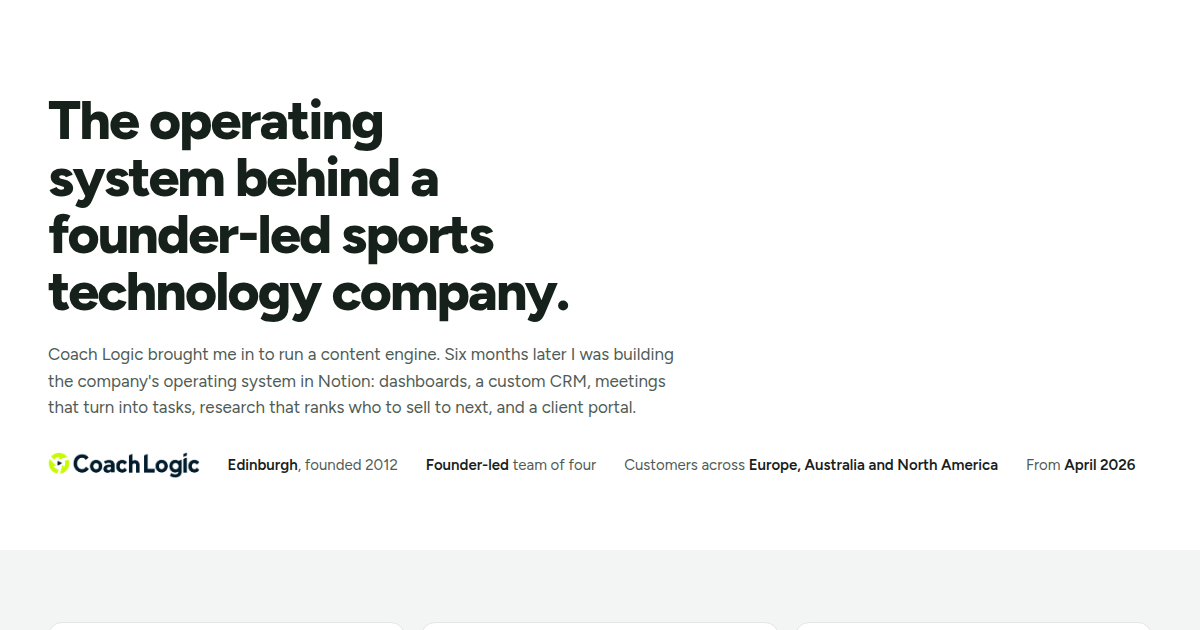
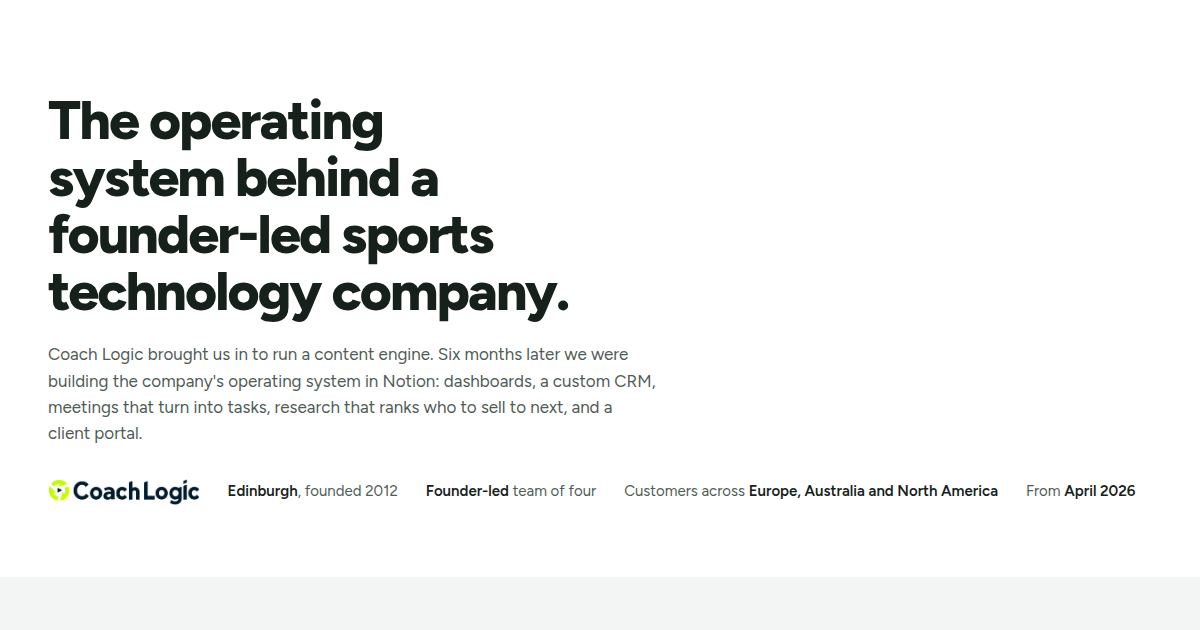
Use we, not I, across the case study
Records the rule in PRODUCT.md.

Claude-Session: https://claude.ai/code/session_01MBTKsyELa39onKPsEkKtmB

Changed region(s): [[0.0308, 0.5429, 0.555, 0.8143], [0.5242, 0.7238, 0.8325, 0.8143], [0.8633, 0.7238, 0.9558, 0.7841]]

diff --git a/work/coach-logic/index.html b/work/coach-logic/index.html
@@ -43,7 +43,7 @@
   <div class="wrap cs-hero">
     <a class="crumb" href="../../#work"><svg viewBox="0 0 16 16" fill="none" stroke="currentColor" stroke-width="2" aria-hidden="true"><path d="M13 8H3M7 4L3 8l4 4"/></svg>All work</a>
     <h1>The operating system behind a founder-led sports technology company.</h1>
-    <p class="lede">Coach Logic brought me in to run a content engine. Six months later I was building the company's operating system in Notion: dashboards, a custom CRM, meetings that turn into tasks, research that ranks who to sell to next, and a client portal.</p>
+    <p class="lede">Coach Logic brought us in to run a content engine. Six months later we were building the company's operating system in Notion: dashboards, a custom CRM, meetings that turn into tasks, research that ranks who to sell to next, and a client portal.</p>
     <div class="facts">
       <img src="../../assets/coach-logic.png" alt="Coach Logic" width="152" height="26">
       <span><b>Edinburgh</b>, founded 2012</span>
@@ -60,7 +60,7 @@
         <div class="stat"><b>2.5&times;</b><span>the reactions</span></div>
         <div class="stat"><b>1.0% to 1.5%</b><span>engagement rate, rising while reach grew</span></div>
       </div>
-      <p class="results-note">LinkedIn analytics for 1 April to 23 September 2026, against the previous period of equal length. I started on 22 April, so the window includes three weeks before I joined. Conferences, a coaching series and partner content fed these numbers; I ran the engine that turned them into posts.</p>
+      <p class="results-note">LinkedIn analytics for 1 April to 23 September 2026, against the previous period of equal length. We started on 22 April, so the window includes three weeks before we joined. Conferences, a coaching series and partner content fed these numbers; we ran the engine that turned them into posts.</p>
     </div>
   </section>
 
@@ -103,14 +103,14 @@
   <section>
     <div class="wrap">
       <div class="head">
-        <h2>How I built it.</h2>
+        <h2>How we built it.</h2>
         <p>The approach matters as much as the parts. It is why the system still makes sense to people who didn't build it.</p>
       </div>
       <ul class="principles">
         <li><h3>Audit before building</h3><p>Every database was read for how full it actually was before anything was designed on top of it. A field existing is not data existing.</p></li>
         <li><h3>Tear down and rebuild</h3><p>The first pass was deliberately taken apart and rebuilt one database at a time, with the founders walking through each one before moving on.</p></li>
         <li><h3>Governed schemas</h3><p>Core databases have a closed, documented set of fields. Nothing gets added without a decision.</p></li>
-        <li><h3>One living build record</h3><p>A single running document holds every schema, decision and platform limit, so someone other than me can maintain it.</p></li>
+        <li><h3>One living build record</h3><p>A single running document holds every schema, decision and platform limit, so someone other than us can maintain it.</p></li>
         <li><h3>Built around how people work</h3><p>Tasks reach founders without a flood of notifications. A captured date sits apart from a due date, so migrated tasks didn't all show as overdue on day one.</p></li>
         <li><h3>A person approves every write</h3><p>Claude drafts, structures and files. Someone on the team approves, and nothing is ever published automatically.</p></li>
       </ul>
@@ -120,7 +120,7 @@
   <section class="soft">
     <div class="wrap">
       <div class="head">
-        <h2>What I built.</h2>
+        <h2>What we built.</h2>
         <p class="redact-note"><span class="r d" aria-hidden="true"></span>The layouts, fields and views are real. Client writing is blurred out.</p>
       </div>
 
@@ -334,7 +334,7 @@
         <li><svg viewBox="0 0 24 24" fill="none" stroke="currentColor" stroke-width="2.2" stroke-linecap="round" stroke-linejoin="round" aria-hidden="true"><path d="M5 12.5l4.5 4.5L19 7.5"/></svg><div><b>Deals carry their own history</b><span>Anyone picking up an account sees every conversation and open action on it.</span></div></li>
         <li><svg viewBox="0 0 24 24" fill="none" stroke="currentColor" stroke-width="2.2" stroke-linecap="round" stroke-linejoin="round" aria-hidden="true"><path d="M5 12.5l4.5 4.5L19 7.5"/></svg><div><b>A real view after the sale</b><span>Signed customers are tracked for onboarding and growth, not forgotten once the invoice clears.</span></div></li>
         <li><svg viewBox="0 0 24 24" fill="none" stroke="currentColor" stroke-width="2.2" stroke-linecap="round" stroke-linejoin="round" aria-hidden="true"><path d="M5 12.5l4.5 4.5L19 7.5"/></svg><div><b>Research that sets priorities</b><span>A ranked target list replaces gut feel on where to spend limited founder time.</span></div></li>
-        <li><svg viewBox="0 0 24 24" fill="none" stroke="currentColor" stroke-width="2.2" stroke-linecap="round" stroke-linejoin="round" aria-hidden="true"><path d="M5 12.5l4.5 4.5L19 7.5"/></svg><div><b>Maintainable</b><span>Documented schemas and a living build record mean the system doesn't depend on my memory.</span></div></li>
+        <li><svg viewBox="0 0 24 24" fill="none" stroke="currentColor" stroke-width="2.2" stroke-linecap="round" stroke-linejoin="round" aria-hidden="true"><path d="M5 12.5l4.5 4.5L19 7.5"/></svg><div><b>Maintainable</b><span>Documented schemas and a living build record mean the system doesn't depend on our memory.</span></div></li>
       </ul>
       <div class="gap" style="margin-top:40px">To add before launch: a signed-off quote from a Coach Logic founder, and one or two operational outcomes in their words.</div>
     </div>
@@ -354,7 +354,7 @@
       <div class="close">
         <div>
           <h2>Want a system like this in your business?</h2>
-          <p>Tell me the job your team repeats every week. A 30 minute call, then a fixed written proposal.</p>
+          <p>Tell us the job your team repeats every week. A 30 minute call, then a fixed written proposal.</p>
         </div>
         <div class="contact">
           <a class="pill pill-green" href="mailto:ryan@ashfordbusinessfinance.com?subject=Booking%20a%20call">Email Ryan to book a call</a>

diff --git a/PRODUCT.md b/PRODUCT.md
@@ -61,6 +61,7 @@ Commercial shape that may be stated: fixed prices, mostly monthly.
 
 - Name: Ashford Integrations. Wordmark "ASHFORD / INTEGRATIONS" with a castle-tower mark; green square mark used in Notion.
 - Voice: plain English, British spelling, direct, concrete. No jargon, no hype, no em dashes.
+- Always "we", never "I", in all site copy, case studies included (Ryan, 25 Sep 2026).
 - The current site's visual look is being replaced; treat it as evidence, not authority.
 
 ## Evidence on Hand
